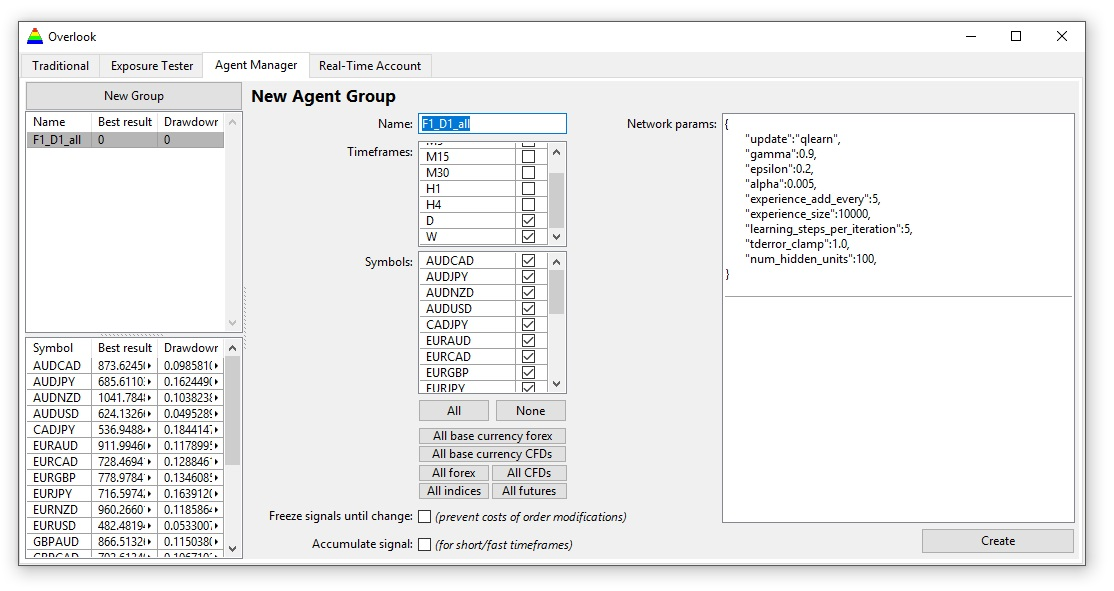
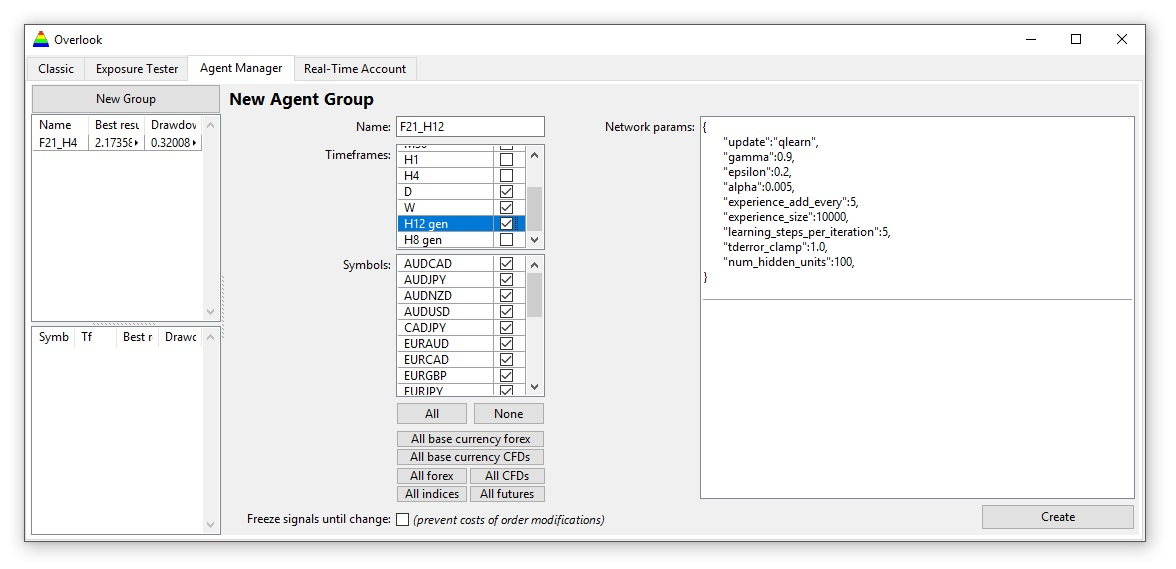
New screenshots

Changed region(s): [[0.0, 0.0299, 0.9767, 0.9561], [0.9461, 0.478, 0.9767, 0.5378]]

diff --git a/src/Overlook/Overlook.cpp b/src/Overlook/Overlook.cpp
@@ -12,7 +12,7 @@ Overlook::Overlook() :
 	
 	Add(tabs.SizePos());
 	tabs.Add(visins);
-	tabs.Add(visins, "Traditional");
+	tabs.Add(visins, "Classic");
 	tabs.Add(exposurectrl);
 	tabs.Add(exposurectrl, "Exposure Tester");
 	tabs.Add(mgrctrl);

diff --git a/src/Overlook/Overlook.h b/src/Overlook/Overlook.h
@@ -42,7 +42,7 @@ protected:
 	// Main view
 	TabCtrl					tabs;
 	
-	// Traditional view
+	// Classic view
 	ParentCtrl				visins;
 	Splitter				droplist_split;
 	DropList				ctrllist, symlist, tflist;

diff --git a/README.md b/README.md
@@ -18,6 +18,9 @@ Agent training.
 Realtime trading.
 ![Realtime trading.](https://github.com/sppp/Overlook/raw/master/docs/realtime.jpg)
 
+Data recording.
+![Data recording.](https://github.com/sppp/Overlook/raw/master/docs/datarecord.jpg)
+
 
 ### How to compile and run
 1. Install Ultimate++ and get some examples to run.
